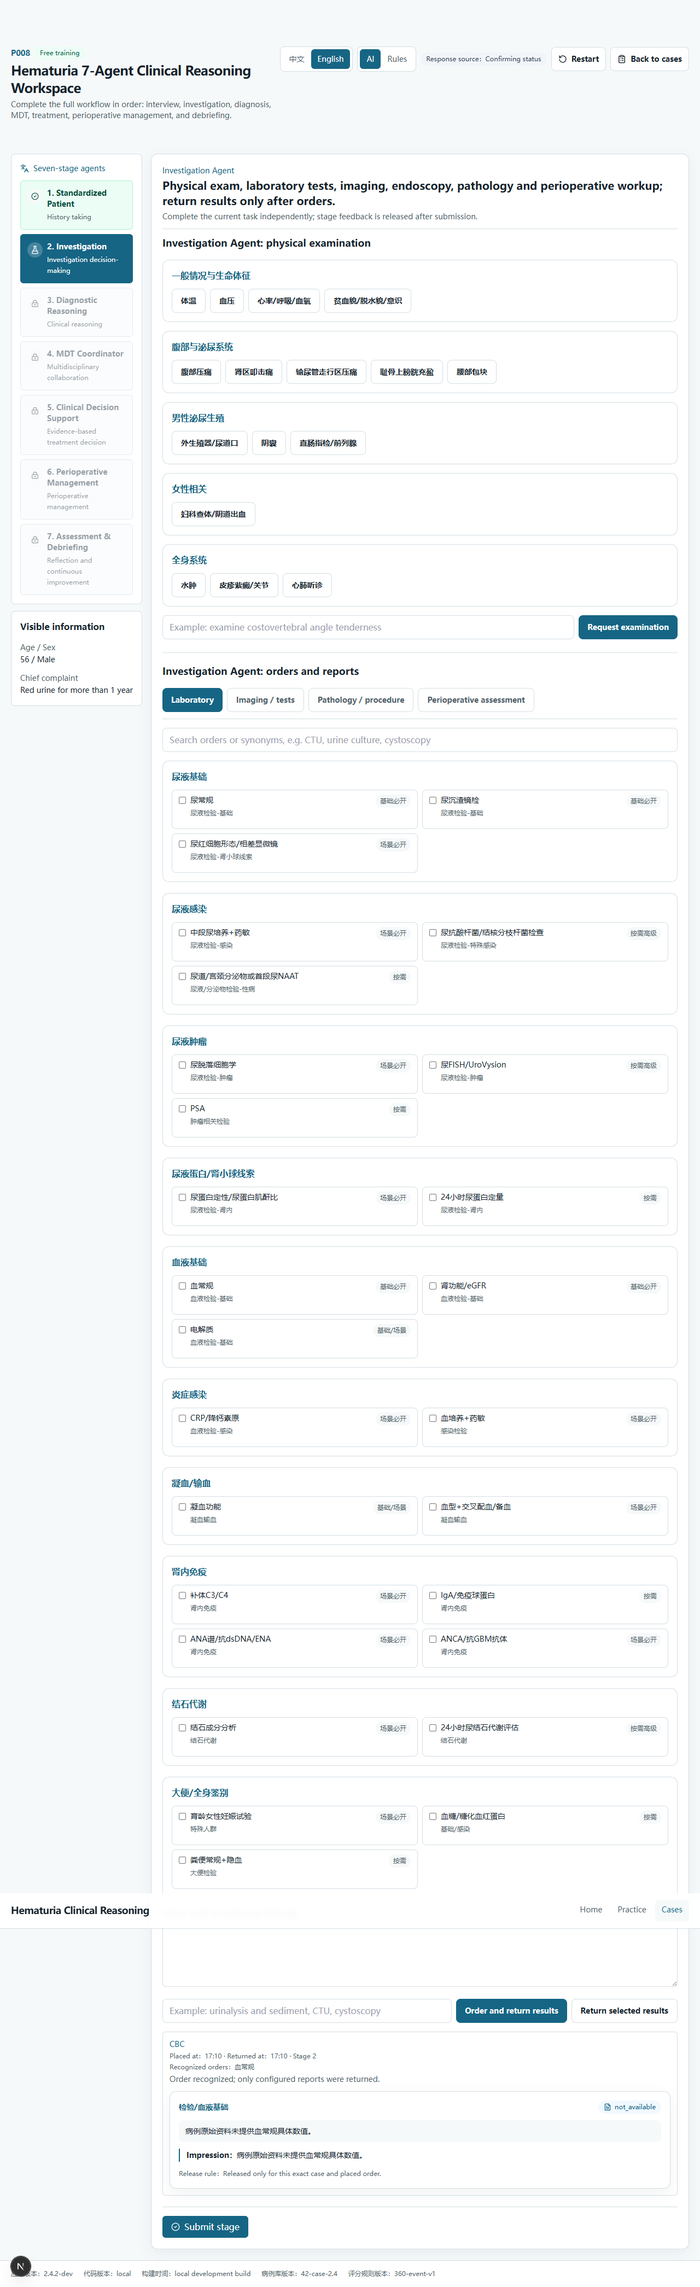
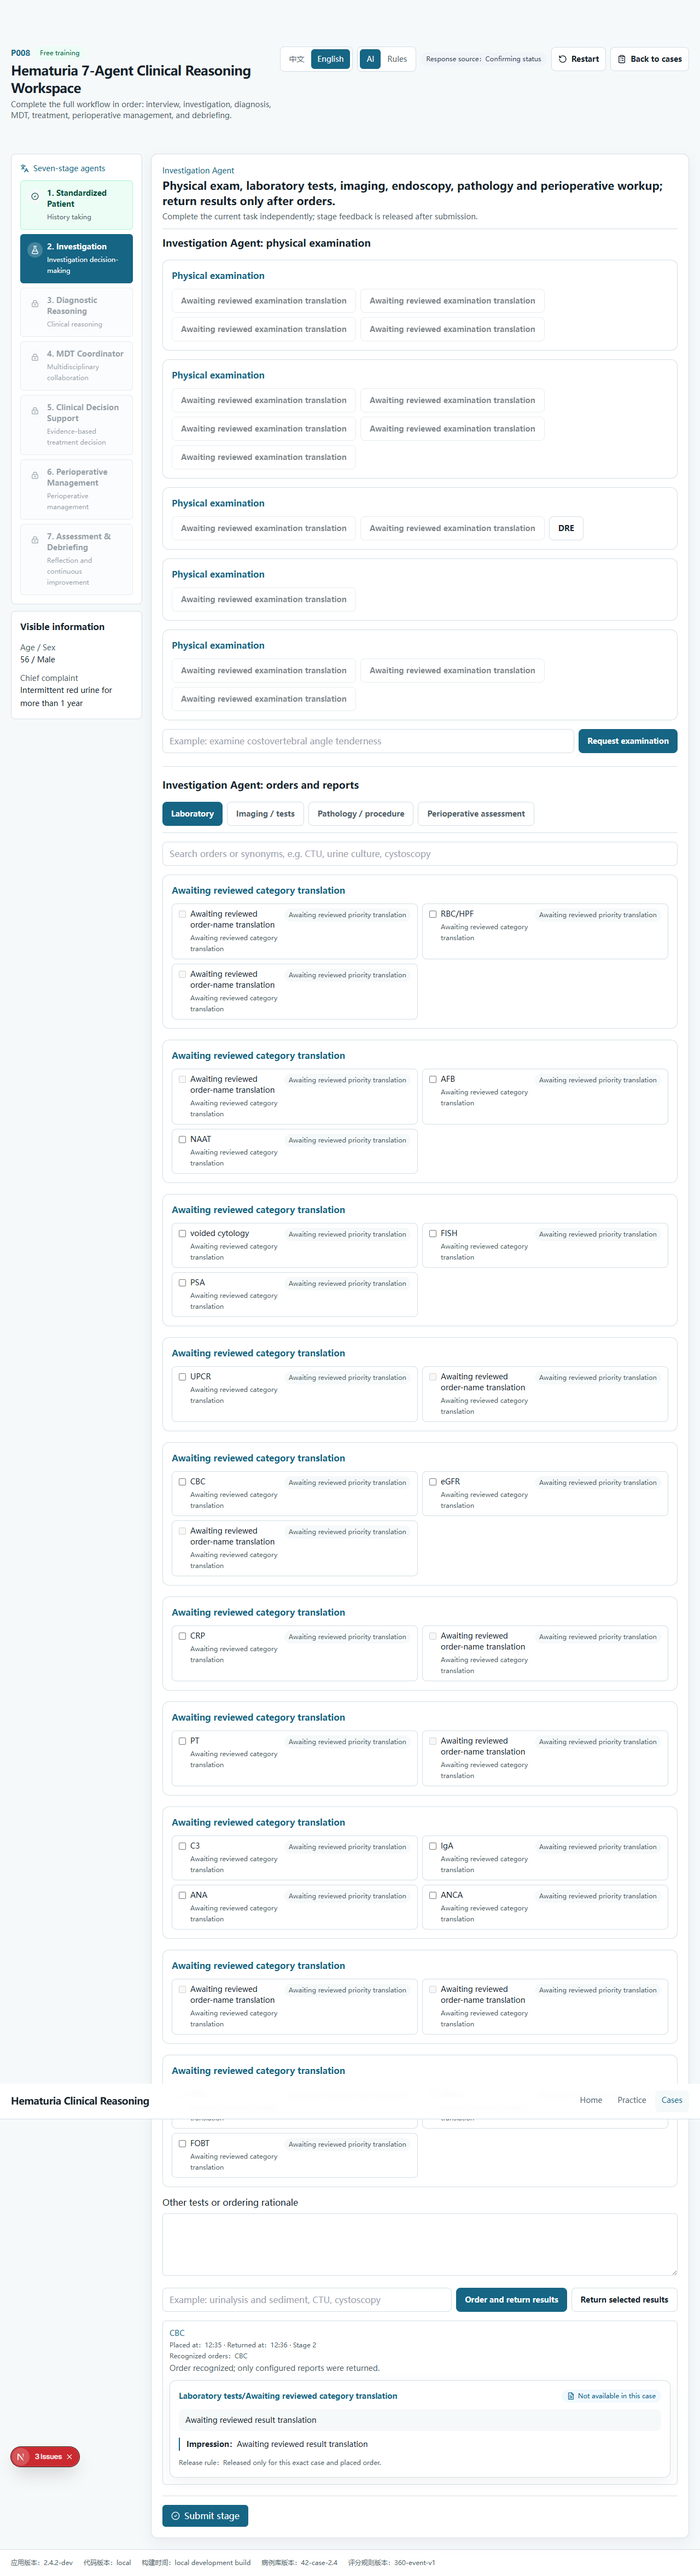
test(qa): revalidate data agent presentation

diff --git a/docs/goal/EXPLORATORY_DEFECTS.md b/docs/goal/EXPLORATORY_DEFECTS.md
@@ -191,7 +191,7 @@
 
 ## HEM-P1-047：结构化检查状态裸显内部枚举且遮蔽异常标志
 
-- 级别/状态：P1，OPEN / FAIL_LOCAL_QA；Production文档基线`657ba5da8fc6460ad7d0deea882a010c40938b40`，运行时代码等价基线`3a16f9314d1b3cf50e30bc41dcfeaf19f4fa77a8`。
+- 级别/状态：P1，RESOLVED_LOCAL_QA / PASS_EMULATION；Production `9b7fcd0` 的确定性呈现门禁与四固定viewport均通过。
 - 页面/路径：训练工作台`/cases/P001/`第2阶段的Production报告卡；结构化输入审计覆盖P001–P042。中文用于`1440×900`、`390×844`，英文用于`1280×720`、`360×800`。
 - 前置条件：本地Next与脱敏training/session fixture只用于进入第2阶段；QA用非医学文本构造三个报告卡，但状态值取自Production数据实际使用的`final/not_available/not_performed`集合，渲染器为Production组件。该证据不记作Preview或真机通过/失败。
 - 操作步骤：读取257条Production结构化结果并统计状态 → 打开P001、提交脱敏病史小结并进入第2阶段 → 返回三个不含医学值的QA报告卡 → 第一张同时设置`status=final`与`abnormalLevel=positive` → 读取可见状态文案和卡片`data-status`。
@@ -204,10 +204,11 @@
 - 最小证据：`reports/hem-p1-047-data-agent-status-1440x900.json`、`screenshots/hem-p1-047-data-agent-status-zh-1440x900.png`、`traces/hem-p1-047-data-agent-status-1440x900.zip`；其余viewport聚合、截图、trace、失败全页图、录像、console/network与test-results仅本机保留。
 - 建议方向：把结构状态映射为中英文学生文案；计算展示状态时让受治理异常/阳性/高低/危急标志优先于`final`完成态，同时为`not_available/not_performed/needs_review`保留明确且可访问的视觉语义。增加三状态×中英文×四viewport报告卡门禁，不要放宽当前失败断言。
 - 医学专家裁决：确认本工程呈现缺陷不需要医学裁决；具体异常标志、结果内容和医学值是否正确仍遵循既有来源/医学审批，不由QA修改或批准。
+- `9b7fcd0`独立复测：官方Data Agent呈现门禁双跑均覆盖60医嘱、257结构化结果、16查体项；四viewport浏览器4/4为本地化状态、raw status泄漏0、异常优先保持。结果为`PASS_EMULATION`，不代表异常标志的医学正确性获批。最小聚合见`artifacts/exploratory-qa/reports/9b7fcd0-round29-data-agent-presentation-regression-summary.json`。
 
 ## HEM-P1-048：英文数据Agent目录与报告仍大量显示中文
 
-- 级别/状态：P1，OPEN / FAIL_LOCAL_QA；Production文档基线`657ba5da8fc6460ad7d0deea882a010c40938b40`，运行时代码等价基线`3a16f9314d1b3cf50e30bc41dcfeaf19f4fa77a8`。
+- 级别/状态：P1，RESOLVED_LOCAL_QA / PASS_EMULATION；Production `9b7fcd0` 的英文投影、公开handler与四固定viewport均无非预期CJK。
 - 页面/路径：训练工作台`/cases/P008/`英文第2阶段；浏览器覆盖`1440×900`、`1280×720`、`390×844`、`360×800`，Production handler只读审计覆盖P001–P042。
 - 前置条件：本地Next；脱敏session/stage fixture只负责进入第2阶段，浏览器order payload来自Production本地`training-action`的英文P008 `CBC`真实响应。全量脚本以英文attempt逐例开立全部配置医嘱及其前置医嘱，只保存CJK计数与病例ID，不保存请求/响应正文或医学值。
 - 操作步骤：运行`data-agent-bilingual-audit.mjs`对42例依次init英文attempt → 提交history进入第2阶段 → 一次开立该例全部配置医嘱与prerequisite → 对学生可见字段做CJK计数；浏览器打开P008英文页 → 进入第2阶段 → 输入`CBC` → 使用同一Production handler响应渲染报告卡 → 读取控件和报告卡语言。
@@ -220,6 +221,7 @@
 - 最小证据：`reports/data-agent-bilingual-audit.json`、`screenshots/hem-p1-048-data-agent-english-1280x720.png`、`traces/hem-p1-048-data-agent-english-1280x720.zip`；其余viewport聚合/截图/trace、失败全页图、录像、console/network与test-results仅本机保留。
 - 建议方向：为医嘱目录、查体项、结果分类及结构化结果增加显式受控`zh/en`字段并按attempt language选择；英文缺失时fail closed或显示明确“awaiting reviewed translation”，不要运行时猜译。回归需覆盖42例257条结果、60医嘱、前置条件、四viewport和切换/刷新，保持case/order/stage绑定及结果数量不变。
 - 医学专家裁决：确认中文串线工程缺陷不需要医学裁决；具体医学结果、单位、参考范围与英文译文必须由权威双语来源或具名医学专家审核，QA不翻译、不修改`data/**`、不解除HEM-P0-023或来源修订状态。
+- `9b7fcd0`独立复测：英文投影双跑每轮42例、60医嘱、257配置结果，呈现目录/结果/公开handler CJK信号均0；23个缺审核英文名称继续不可用，28项缺元数据继续显示待审核。四viewport浏览器4/4报告卡、医嘱显示名、返回字段和非语言切换控件CJK均0；唯一“中文”按钮是切回中文的预期语言入口。HEM-P2-059重复key仍独立OPEN。
 
 ## HEM-P2-043：本地 Next 开发环境病例目录链接对 42 个 `.html` 路由全部返回 404
 

diff --git a/artifacts/exploratory-qa/EVIDENCE_INDEX.md b/artifacts/exploratory-qa/EVIDENCE_INDEX.md
@@ -493,3 +493,19 @@ SHA-256：
 
 - 聚合和本机摘要不保存完整问题、回答、医学值、session/request ID、header、Cookie、Authorization、token、签名或环境值；本轮无浏览器证据。
 - `9b7fcd0-r28*`扫描覆盖2个文件、4,564字节，`9b7fcd0-round28*`扫描覆盖1个文件、2,374字节，敏感值命中均为0。
+
+## Production `9b7fcd0` 第 29 轮Data Agent呈现证据
+
+| 证据名称 | 对应测试或缺陷 | 文件路径 | 文件大小 | 是否提交 Git | 未提交原因 | 本机保留位置 |
+| --- | --- | --- | ---: | --- | --- | --- |
+| 第29轮脱敏聚合 | HEM-P1-047/048与相邻HEM-P2-059 | `artifacts/exploratory-qa/reports/9b7fcd0-round29-data-agent-presentation-regression-summary.json` | 提交后记录 | 是 | — | 仓库路径 |
+| Data Agent双语审计 | 42例公开英文投影与23/28 fail-closed | `tests/exploratory/data-agent-bilingual-audit.mjs` | 整文件 | 是 | — | 仓库路径 |
+| 四视口最小测试 | 状态本地化、异常优先、英文CJK边界 | `tests/exploratory/long-running-qa.spec.mjs` | 整文件 | 是 | — | 仓库路径 |
+| 状态代表摘要/截图 | HEM-P1-047桌面中文 | `artifacts/exploratory-qa/reports/hem-p1-047-data-agent-status-1440x900.json`、`screenshots/hem-p1-047-data-agent-status-zh-1440x900.png` | 706 B / 62,341 B | 是 | — | 仓库路径 |
+| 英文代表摘要/截图 | HEM-P1-048桌面英文 | `artifacts/exploratory-qa/reports/hem-p1-048-data-agent-english-1280x720.json`、`screenshots/hem-p1-048-data-agent-english-1280x720.png` | 668 B / 378,578 B | 是 | — | 仓库路径 |
+| 两轮双语原始摘要 | 42例逐病例计数 | `artifacts/exploratory-qa/reports/9b7fcd0-r29-data-agent-bilingual-run-*.json` | 2份各20,959 B | 否 | 聚合已保留验收计数；逐病例摘要可重建 | 原路径，本机未跟踪 |
+| 其余四视口证据 | per-viewport摘要、console/network、截图、trace、录像、HTML | `artifacts/exploratory-qa/{reports,screenshots,traces,videos}/hem-p1-04[78]-*` | 本轮自动证据集 | 否 | 重复且体积大；代表证据与聚合已足够 | 原路径，本机未跟踪 |
+| 无效QA运行 | postcss沙箱overlay、旧语言按钮oracle | 不作为产品证据提交 | 0 B | 否 | QA基础设施/断言问题，已修正并有效重跑 | 本机失败上下文不提交 |
+
+- 所有提交候选与本机自动证据需再次扫描；聚合不保存医学值、请求正文、session/request ID、header、Cookie、Authorization、token、签名或环境值。
+- `9b7fcd0-r29*`扫描2个文件/41,918字节，`9b7fcd0-round29*`扫描1个文件/3,830字节；`hem-p1-047*`扫描32个文件、551个ZIP条目、67,619,847字节，`hem-p1-048*`扫描28个文件、350个ZIP条目、49,049,417字节，敏感值命中均为0。

diff --git a/docs/goal/CASE_COVERAGE_MATRIX.md b/docs/goal/CASE_COVERAGE_MATRIX.md
@@ -350,3 +350,16 @@
 | 15 intent扩展问法 | 3,150/3,150；1,095 known错误unknown 0、1,990 correct unknown、65 quarantine | PASS_LOCAL_QA |
 
 - 全42行HEM-P1-050工程列继续`PASS_LOCAL_CONTRACT / RESOLVED_LOCAL_QA`。正确unknown及quarantine只证明fail-closed，不批准对应医学事实。
+
+## Production `9b7fcd0` 第 29 轮Data Agent呈现增量
+
+| 场景 | 结果 | 状态 |
+| --- | --- | --- |
+| 42例英文公开投影 | 60医嘱、257配置结果；目录/直接投影/handler CJK信号0 | PASS_LOCAL_QA |
+| 未审核英文名称 | 23/23不可用；中文23/23对照可匹配 | BLOCKED_SOURCE_REVISION / PASS_FAIL_CLOSED |
+| 缺单位/参考范围 | 28/28待审核元数据 | BLOCKED_MEDICAL / PASS_FAIL_CLOSED |
+| 状态本地化与异常优先 | 四viewport 4/4 | PASS_EMULATION |
+| 英文Data Agent UI | 四viewport 4/4，非语言切换控件/报告卡/结果字段CJK 0 | PASS_EMULATION |
+| 英文查体分类key | 6个英文运行各16条重复key | FAIL_EMULATION / HEM-P2-059 |
+
+- HEM-P1-047/048工程列更新为通过，但所有病例的医学/来源审核列不变；135个公开安全结果不能外推为257项英文审核完成。

diff --git a/docs/goal/NATURAL_LANGUAGE_REVIEW.md b/docs/goal/NATURAL_LANGUAGE_REVIEW.md
@@ -213,3 +213,9 @@
 - 指定10类中英文问法双跑均840/840场景、1,428/1,428 intent；覆盖尿痛否定、全程/起止/选择/终末否定、尿频尿急尿痛复合及腰痛发热血块复合。
 - 当前已知事实错误unknown为0/838、极性错误0/578，512/512真实unknown保持不确定；42/42冲突场景继续隔离，420/420双语工程等义，未问病史额外泄漏0。
 - 3,150扩展问法双跑同样零错误unknown和零极性错误；特异dysuria/flank pain不扩张generic pain。上述是确定性工程合同，不替代live_ai措辞、教师体验或具名医学审阅。
+
+## 2026-07-26 `9b7fcd0` 第 29 轮Data Agent语言边界
+
+- 英文公开目录、结构化结果和代表报告卡不再显示中文源文本；预期“中文”语言切换按钮不属于医学内容串线，其他英文控件CJK信号为0。
+- 23个未审核英文名称继续使用安全占位，28项缺元数据继续显示待审核；该文案通过只证明fail-closed，不批准具体译名、单位、参考范围或异常含义。
+- 本轮没有Patient Agent问答或live_ai自然度结论，HEM-P1-057/058及HEM-P0-001/023状态不变。

diff --git a/docs/goal/UI_VISUAL_REVIEW.md b/docs/goal/UI_VISUAL_REVIEW.md
@@ -211,3 +211,10 @@
 
 - HEM-P1-050仅运行本地deterministic handler与路由脚本，不启动浏览器、不生成视觉证据，也不新增UI通过结论。
 - 桌面/移动布局、真实设备和safe-area状态保持既有结论；自然问法工程通过不能替代视觉或真机验收。
+
+## 2026-07-26 `9b7fcd0` 第 29 轮Data Agent四视口
+
+- 1440×900、1280×720、390×844、360×800最终8/8：HEM-P1-047状态文案与异常优先4/4，HEM-P1-048英文报告卡和可见控件4/4；结果标`PASS_EMULATION`。
+- 英文页面唯一CJK控件为预期“中文”语言切换入口；报告卡、医嘱显示名、返回字段和其他控件均无CJK。代表桌面截图刷新，重复截图、trace、录像和HTML仅本机保留。
+- 英文查体安全占位仍造成`Physical examination`重复React key：6个英文运行各16条，HEM-P2-059保持`OPEN / FAIL_EMULATION`。页面HTTP失败0，其他console error 0。
+- 首次沙箱依赖访问失败和旧语言按钮oracle均属于QA基础设施，不计产品结果。真实设备、软键盘、动态地址栏和safe-area仍`BLOCKED_REAL_DEVICE`。
